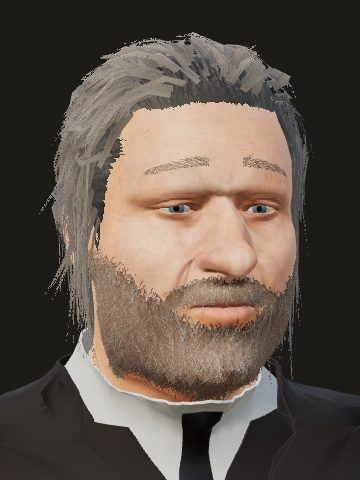
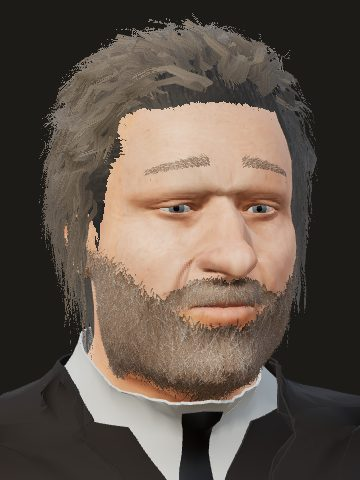
T-3553: the Greys' hair fuller and wavier, as their sheets show
Owner, 2026-11-13 (the gaps to the sheets, "all of them"): William's
waves and Sarah's fuller ash hair at the sides.

- human-hair.js layCard: a cut may wave (`wave`): each strand turns one
  way and back each step, with a phase of its own, and gets three more
  steps to show it. Drawn only for a cut that waves, so no other
  head's strands move.
- human-hair.js bunToCrown: a cut may stand its cap off the skull
  (`cap_puff`): the cap, its patch and the knot move by one field, most
  at the sides and back, none at the brow's hairline, little at the
  nape.
- William: swept_back_wavy_1904 waves, stands fuller, ends at the
  collar; light_ash_grey taken to the sheet's ash brown.
- Sarah: swept_up_topknot_1904 puffed, knot larger, cap tinted ash
  brown (it read a light sand).
- Card stills regenerated.

Claude-Session: https://claude.ai/code/session_01YWBQdZGjWaE4FT9A1KPnpp

diff --git a/chicago/4d/renderers/web/js/human-hair.js b/chicago/4d/renderers/web/js/human-hair.js
@@ -230,9 +230,12 @@ function combed(cut, f, p, n) {
 }
 
 /** Lay one card: a ribbon from `root` along the comb, a few millimetres off the surface. */
-function layCard(out, { start, n0, length, segments, width, lift, dir, surface, nearest, reach, rand, curl, weights, seed, layer, hang = false }) {
+function layCard(out, { start, n0, length, segments, width, lift, dir, surface, nearest, reach, rand, curl, weights, seed, layer, hang = false, wave = 0 }) {
   const p = start.clone().addScaledVector(n0, lift.root), n = n0.clone();
   const step = length / segments, wob = (rand() - .5) * 2 * curl;
+  // T-3553: a wave (William Grey's sheet): the strand turns one way and back each step, its
+  // phase its own (drawn only for a cut that waves, so no other head's strands move).
+  const sway = wave ? wave * (.7 + .6 * rand()) * (rand() < .5 ? 1 : -1) : 0;
   const pts = [], nrm = [], tan = [];
   let d = dir(p, n);
   for (let s = 0; s <= segments; s++) {
@@ -244,7 +247,7 @@ function layCard(out, { start, n0, length, segments, width, lift, dir, surface, 
     pts.push(p.clone()); nrm.push(n.clone()); tan.push(t.lengthSq() > 1e-10 ? t.normalize() : d.clone());
     if (s === segments) break;
     // Turn a little about the normal (a curl), then step and settle back over the surface.
-    d.applyAxisAngle(n, wob * (1 + s * .3)).normalize();
+    d.applyAxisAngle(n, wob * (1 + s * .3) + (s % 2 ? -sway : sway) * (s ? 2 : 1)).normalize();
     p.addScaledVector(d, step);
     const vi = nearest(p.x, p.y, p.z);
     if (vi >= 0) {
@@ -389,9 +392,9 @@ export function growHair({ hair, skin = null, root, style, lod, seed = 'person' 
     const width = Math.max(.002, Math.min((cut.card_mm ?? level.width_mm) / 1000, level.width_mm / 1000, len * .35)) * (.8 + .4 * rand());
     laid += len * width * .8;
     layCard(out, {
-      start: s.p, n0: s.n, length: len, segments: Math.max(2, Math.min(level.segments, Math.round(len / .01) + 1)), width,
+      start: s.p, n0: s.n, length: len, segments: Math.max(2, Math.min(level.segments + (cut.wave ? 3 : 0), Math.round(len / .01) + 1)), width,
       lift: { root: cut.lift_mm.root / 1000 * (.6 + .8 * rand()), tip: cut.lift_mm.tip / 1000 * (.6 + .8 * rand()) },
-      dir: (p, n) => combed(cut, f, p, n), surface: scalp, nearest: nearScalp, reach: CARDS.shell_reach_m, rand, curl: cut.curl, hang: !!cut.hang && s.n.dot(f.z) < .25,  // never down over the brow
+      dir: (p, n) => combed(cut, f, p, n), surface: scalp, nearest: nearScalp, reach: CARDS.shell_reach_m, rand, curl: cut.curl, hang: !!cut.hang && s.n.dot(f.z) < .25, wave: cut.wave ?? 0,  // never down over the brow
       weights: weightsOf(hair, s.vertex, same), seed: rand(), layer: rand(),
     });
     grown.scalp++;
@@ -722,14 +725,14 @@ function sub(src, tris) {
  * share the cap's skeleton, material and texture, and are shared by every figure wearing that
  * cap and turn.
  */
-function bunToCrown(root, deg, knot = 1) {
+function bunToCrown(root, deg, knot = 1, puff = 0) {
   const caps = [];
   root.traverse(o => { if (o.isSkinnedMesh && /^hair($|__)/.test(o.material?.name ?? '')) caps.push(o); });
   for (const o of caps) {
     const src = o.geometry;
     let byDeg = turnedBuns.get(src);
     if (!byDeg) { byDeg = new Map(); turnedBuns.set(src, byDeg); }
-    let made = byDeg.get(`${deg}/${knot}`);
+    let made = byDeg.get(`${deg}/${knot}/${puff}`);
     if (!made) {
       const f = headFrame(o, root);
       if (!f) continue;
@@ -754,7 +757,7 @@ function bunToCrown(root, deg, knot = 1) {
         const d = v.fromBufferAttribute(p, i).applyMatrix4(R).sub(mid);
         if (d.length() > .085 && d.dot(f.z) < -.035) axis.add(d);
       }
-      if (!axis.lengthSq()) { byDeg.set(`${deg}/${knot}`, null); continue; }
+      if (!axis.lengthSq()) { byDeg.set(`${deg}/${knot}/${puff}`, null); continue; }
       axis.normalize();
       const cone = Math.cos(38 * Math.PI / 180);
       for (let i = 0; i < p.count; i++) {
@@ -771,7 +774,7 @@ function bunToCrown(root, deg, knot = 1) {
       const I = src.index ? src.index.array : Uint32Array.from({ length: p.count }, (_, i) => i);
       const tris = [];
       for (let t = 0; t < I.length; t += 3) if (inBun[I[t]] && inBun[I[t + 1]] && inBun[I[t + 2]]) tris.push(I[t], I[t + 1], I[t + 2]);
-      if (!tris.length) { byDeg.set(`${deg}/${knot}`, null); continue; }
+      if (!tris.length) { byDeg.set(`${deg}/${knot}/${puff}`, null); continue; }
       const q = new THREE.Quaternion().setFromAxisAngle(f.x, deg * Math.PI / 180);
       // The bun's own middle; the knot is drawn smaller than the low bun, and sits that much
       // nearer the skull.
@@ -819,10 +822,28 @@ function bunToCrown(root, deg, knot = 1) {
         const out = A.clone().add(B).add(C).multiplyScalar(1 / 3).sub(mid);
         if (B.sub(A).cross(C.sub(A)).dot(out) < 0) { const x = pi[t + 1]; pi[t + 1] = pi[t + 2]; pi[t + 2] = x; }
       }
+      // T-3553: hair worn full (`cap_puff`, Sarah Grey's updo on her sheet): the cap, its patch
+      // and the knot stand off the skull, as a fraction of their distance from the head's middle,
+      // most at the sides and back, none at the hairline over the brow and little at the nape. One field moves all
+      // three, so they still meet where they met.
+      if (puff) {
+        const d = new THREE.Vector3(), u = new THREE.Vector3();
+        for (const g of [cap, patch.geometry, geo]) {
+          const a = g.attributes.position;
+          for (let k = 0; k < a.count; k++) {
+            d.fromBufferAttribute(a, k).applyMatrix4(R).sub(mid);
+            u.copy(d).normalize();
+            const w = puff * (1 - smooth(-.1, .55, u.dot(f.z))) * smooth(-.75, -.25, u.dot(f.y));
+            d.multiplyScalar(1 + w).add(mid).applyMatrix4(Ri);
+            a.setXYZ(k, d.x, d.y, d.z);
+          }
+          g.computeBoundingSphere();
+        }
+      }
       patch.geometry.computeBoundingSphere();
       cap.computeBoundingSphere();
       made = { cap, knot: geo, patch: patch.geometry };
-      byDeg.set(`${deg}/${knot}`, made);
+      byDeg.set(`${deg}/${knot}/${puff}`, made);
     }
     if (!made) continue;
     o.geometry = made.cap;
@@ -852,7 +873,7 @@ export function dressHair(root, { lod = 0, person = null, year = null, style: gi
   if (HAIR_CUTS[style.cut]?.bald) root.traverse(o => { if (o.isMesh && /^hair($|__)/.test(o.material?.name ?? '')) o.visible = false; });
   // T-3553: a cut that wears the cap's own bun high on the crown (`bun_to_crown_deg`, Sarah
   // Grey's top knot) turns the bun up over the back of the head, at every level.
-  if (HAIR_CUTS[style.cut]?.bun_to_crown_deg) bunToCrown(root, HAIR_CUTS[style.cut].bun_to_crown_deg, HAIR_CUTS[style.cut].bun_knot_scale ?? 1);
+  if (HAIR_CUTS[style.cut]?.bun_to_crown_deg) bunToCrown(root, HAIR_CUTS[style.cut].bun_to_crown_deg, HAIR_CUTS[style.cut].bun_knot_scale ?? 1, HAIR_CUTS[style.cut].cap_puff ?? 0);
   if (!CARDS.lods[lod] || (CARDS.lods[lod].tail_only && !(style.tail_cm > 0 && HAIR_CUTS[style.cut]?.knot_cm))) return null;
   let hair = null, skin = null;
   root.traverse(o => {

diff --git a/chicago/4d/renderers/web/js/human-hair-styles.js b/chicago/4d/renderers/web/js/human-hair-styles.js
@@ -40,10 +40,14 @@ export const HAIR_CUTS = Object.freeze({
   // (`bun_to_crown_deg`, human-hair.js bunToCrown). Like drawn_back_bun_1904 the cap carries its
   // own fine strands and grows no scalp cards; brows and lashes still grow from her face. Its
   // `cap_tint` takes the cap's brown to the sheet's ash: set by the hair's tone against the
-  // forehead's on the sheet and on a render (2026-11-13), where the cap had read dark and violet.
+  // forehead's on the sheet and on a render (2026-11-13), where the cap had read dark and violet,
+  // then once more beside the sheet's four views, where it read a light sand: an ash brown.
+  // `cap_puff` stands the cap, its patch and the knot off the skull (bunToCrown), as the sheet's
+  // full updo stands at the sides and back (owner, 2026-11-13: fuller hair at her sides), the
+  // knot larger (`bun_knot_scale`) as the sheet's is.
   swept_up_topknot_1904: Object.freeze({
     flow: 'swept_up', part_cm: 0, lengths_cm: Object.freeze({ top: 6, side: 5, back: 4 }),
-    knot_cm: Object.freeze({ up: 10, back: 8 }), scalp_cards: false, bun_to_crown_deg: 62, bun_knot_scale: .7, cap_tint: Object.freeze([1.4, 1.9, 1.75]),
+    knot_cm: Object.freeze({ up: 10, back: 8 }), scalp_cards: false, bun_to_crown_deg: 62, bun_knot_scale: .9, cap_puff: .15, cap_tint: Object.freeze([.95, 1.25, 1.3]),
     lift_mm: Object.freeze({ root: .6, tip: 1.4 }), density: 1, curl: .04, hang: false,
   }),
   // A woman's hair of the 1900s worn as a real bun (T-3434): her cap is a cleared bun hair
@@ -70,10 +74,12 @@ export const HAIR_CUTS = Object.freeze({
   // swept straight back off a high forehead, with no parting, standing full at the sides.
   // T-3553, 2026-11-13: re-read from the owner's turnaround sheet of the stand-in: swept back
   // from the brow and falling in loose waves over the ears to below the jaw and the collar
-  // behind, full at the sides.
+  // behind, full at the sides. Drawn beside the sheet's four views (owner, 2026-11-13, the
+  // gaps to his sheet: "all of them"): the strands wave (`wave`, human-hair.js layCard), stand
+  // fuller off the head (lift) and end at the collar, not in long wisps below it.
   swept_back_wavy_1904: Object.freeze({
-    flow: 'swept_back', part_cm: 0, lengths_cm: Object.freeze({ top: 11, side: 12.5, back: 15 }),
-    lift_mm: Object.freeze({ root: 5, tip: 14 }), density: 5, curl: .35, hang: true, card_mm: 6.5, cap_tint: 12,
+    flow: 'swept_back', part_cm: 0, lengths_cm: Object.freeze({ top: 11, side: 10.5, back: 11.5 }),
+    lift_mm: Object.freeze({ root: 7, tip: 24 }), density: 7, curl: .2, wave: .25, hang: true, card_mm: 8, cap_tint: 12,
   }),
   // A soldier's crop of 1812 (T-3491, a reconstructed choice): short all round, a little
   // longer on top and brushed forward to the brow, close over the ears and at the nape.
@@ -306,7 +312,8 @@ export const HAIR_COLOURS = Object.freeze({
   // Matched to the sheets' colour once more (T-3553, owner 2026-11-13: "keep going so they match
   // perfectly"): drawn beside them, his hair read too dark and hers too dark and warm. His is a
   // light ash going silver at the sides; hers an ash brown with fair and grey streaks through it.
-  light_ash_grey: Object.freeze([.24, .205, .17]),
+  // Beside the four views (2026-11-13) his cards read near silver: taken to the sheet's ash brown.
+  light_ash_grey: Object.freeze([.16, .125, .09]),
   ash_fair_grey: Object.freeze([.2, .16, .125]),
   // His beard and moustache (T-3553): warmer than his hair, a reddish sand, as the portrait's
   // beard reads a shade redder and lighter than the hair above it.
